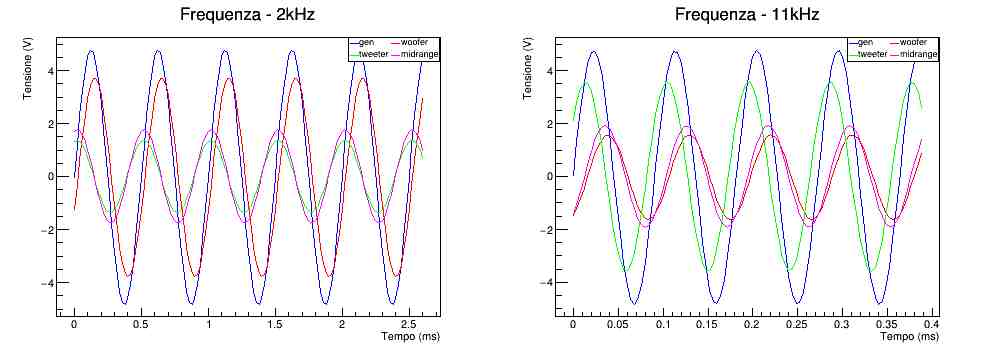
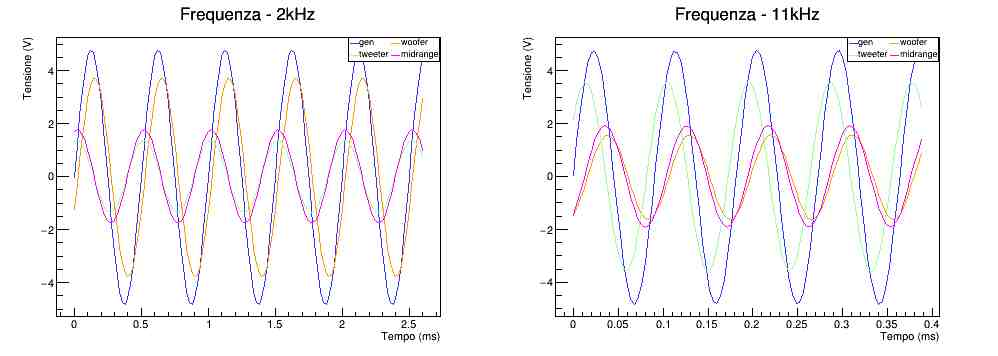
cosmetics

diff --git a/multigrafico_tempo_2kHz_11kHz.tex b/multigrafico_tempo_2kHz_11kHz.tex
@@ -145,7 +145,7 @@
 \draw [anchor= east] (1.112,4.6478) node[scale=0.535452, color=c, rotate=0]{2};
 \draw [anchor= east] (1.112,5.70996) node[scale=0.535452, color=c, rotate=0]{4};
 \draw [anchor= east] (0.583519,6.36377) node[scale=0.535452, color=c, rotate=90]{ Tensione (V)};
-\definecolor{c}{rgb}{0,0,1};
+\definecolor{c}{rgb}{0.2,0.2,1};
 \draw [c,line width=0.9] (1.50909,3.57257) -- (1.5628,4.20827) -- (1.6165,4.80173) -- (1.67021,5.31715) -- (1.72392,5.7203) -- (1.77762,5.9917) -- (1.83133,6.10876) -- (1.88504,6.06857) -- (1.93874,5.87088) -- (1.99245,5.52578) -- (2.04615,5.06012)
  -- (2.09986,4.4976) -- (2.15357,3.87995) -- (2.20727,3.24272) -- (2.26098,2.62259) -- (2.31469,2.06487) -- (2.36839,1.60197) -- (2.4221,1.25611) -- (2.4758,1.06322) -- (2.52951,1.02525) -- (2.58322,1.14616) -- (2.63692,1.41942) -- (2.69063,1.82889)
  -- (2.74434,2.34728) -- (2.79804,2.94048) -- (2.85175,3.57283) -- (2.90545,4.20776) -- (2.95916,4.80097) -- (3.01287,5.31663) -- (3.06657,5.72099) -- (3.12028,5.99161) -- (3.17399,6.10884) -- (3.22769,6.0684) -- (3.2814,5.8719) -- (3.3351,5.52518)
@@ -157,7 +157,7 @@
  (6.61119,1.14633) -- (6.6649,1.41976) -- (6.7186,1.82846) -- (6.77231,2.34582) -- (6.82601,2.93851) -- (6.87972,3.57659) -- (6.93343,4.20981) -- (6.98713,4.80268) -- (7.04084,5.318) -- (7.09455,5.72218) -- (7.14825,5.99341) -- (7.20196,6.10876) --
  (7.25566,6.06814) -- (7.30937,5.87045) -- (7.36308,5.52364) -- (7.41678,5.05824) -- (7.47049,4.49718) -- (7.5242,3.87721) -- (7.5779,3.24084) -- (7.63161,2.62165) -- (7.68531,2.06265) -- (7.73902,1.60103) -- (7.79273,1.25902) -- (7.84643,1.06433) --
  (7.90014,1.02491) -- (7.95385,1.14496) -- (8.00755,1.41857) -- (8.06126,1.83171) -- (8.11497,2.34856) -- (8.16867,2.94296) -- (8.22238,3.57523) -- (8.27608,4.20972) -- (8.32979,4.80131) -- (8.3835,5.31792) -- (8.4372,5.7227) -- (8.49091,5.99264);
-\definecolor{c}{rgb}{1,0,0};
+\definecolor{c}{rgb}{1,0.6,0};
 \draw [c,line width=0.9] (1.50909,2.91465) -- (1.5628,3.40192) -- (1.6165,3.90064) -- (1.67021,4.37842) -- (1.72392,4.80558) -- (1.77762,5.1558) -- (1.83133,5.40667) -- (1.88504,5.54271) -- (1.93874,5.55382) -- (1.99245,5.4401) -- (2.04615,5.20864)
  -- (2.09986,4.87381) -- (2.15357,4.45759) -- (2.20727,3.98631) -- (2.26098,3.48913) -- (2.31469,2.99716) -- (2.36839,2.54051) -- (2.4221,2.14772) -- (2.4758,1.84394) -- (2.52951,1.64831) -- (2.58322,1.57426) -- (2.63692,1.62685) -- (2.69063,1.80204)
  -- (2.74434,2.08804) -- (2.79804,2.46715) -- (2.85175,2.91423) -- (2.90545,3.40149) -- (2.95916,3.90055) -- (3.01287,4.37816) -- (3.06657,4.8055) -- (3.12028,5.15597) -- (3.17399,5.40684) -- (3.22769,5.54314) -- (3.2814,5.55408) -- (3.3351,5.44044)
@@ -170,7 +170,7 @@
  -- (7.20196,5.40787) -- (7.25566,5.54288) -- (7.30937,5.55399) -- (7.36308,5.43959) -- (7.41678,5.20822) -- (7.47049,4.87313) -- (7.5242,4.45682) -- (7.5779,3.9852) -- (7.63161,3.48827) -- (7.68531,2.99579) -- (7.73902,2.53931) -- (7.79273,2.14661)
  -- (7.84643,1.84385) -- (7.90014,1.64797) -- (7.95385,1.57426) -- (8.00755,1.62685) -- (8.06126,1.80255) -- (8.11497,2.08881) -- (8.16867,2.468) -- (8.22238,2.91551) -- (8.27608,3.40303) -- (8.32979,3.90166) -- (8.3835,4.37953) -- (8.4372,4.80644)
  -- (8.49091,5.157);
-\definecolor{c}{rgb}{0,1,0};
+\definecolor{c}{rgb}{0.6,1,0.6};
 \draw [c,line width=0.9] (1.50909,4.28342) -- (1.5628,4.30463) -- (1.6165,4.27941) -- (1.67021,4.21135) -- (1.72392,4.1061) -- (1.77762,3.96246) -- (1.83133,3.79624) -- (1.88504,3.61627) -- (1.93874,3.43774) -- (1.99245,3.26854) -- (2.04615,3.11763)
  -- (2.09986,2.99691) -- (2.15357,2.91337) -- (2.20727,2.87079) -- (2.26098,2.87293) -- (2.31469,2.9203) -- (2.36839,3.0105) -- (2.4221,3.1349) -- (2.4758,3.29205) -- (2.52951,3.46681) -- (2.58322,3.6467) -- (2.63692,3.82292) -- (2.69063,3.97785) --
  (2.74434,4.11507) -- (2.79804,4.21861) -- (2.85175,4.28069) -- (2.90545,4.30343) -- (2.95916,4.27855) -- (3.01287,4.21118) -- (3.06657,4.10695) -- (3.12028,3.96322) -- (3.17399,3.79641) -- (3.22769,3.61627) -- (3.2814,3.43749) -- (3.3351,3.26871) --
@@ -204,21 +204,21 @@
 \draw [anchor=base west] (7.23221,6.19604) node[scale=0.44621, color=c, rotate=0]{gen};
 \definecolor{c}{rgb}{1,1,1};
 \draw [c, fill=c] (7.03732,6.16609) -- (7.19782,6.16609) -- (7.19782,6.33382) -- (7.03732,6.33382);
-\definecolor{c}{rgb}{0,0,1};
+\definecolor{c}{rgb}{0.2,0.2,1};
 \draw [c,line width=0.9] (7.03732,6.24995) -- (7.19782,6.24995);
 \foreach \P in {(7.11757,6.24995)}{\draw[mark options={color=c,fill=c},mark size=2.402402pt, line width=0.000000pt, mark=*,mark size=1pt] plot coordinates {\P};}
 \definecolor{c}{rgb}{0,0,0};
 \draw [anchor=base west] (8.06842,6.19604) node[scale=0.44621, color=c, rotate=0]{woofer};
 \definecolor{c}{rgb}{1,1,1};
 \draw [c, fill=c] (7.87353,6.16609) -- (8.03403,6.16609) -- (8.03403,6.33382) -- (7.87353,6.33382);
-\definecolor{c}{rgb}{1,0,0};
+\definecolor{c}{rgb}{1,0.6,0};
 \draw [c,line width=0.9] (7.87353,6.24995) -- (8.03403,6.24995);
 \foreach \P in {(7.95378,6.24995)}{\draw[mark options={color=c,fill=c},mark size=2.402402pt, line width=0.000000pt, mark=*,mark size=1pt] plot coordinates {\P};}
 \definecolor{c}{rgb}{0,0,0};
 \draw [anchor=base west] (7.23221,5.95642) node[scale=0.44621, color=c, rotate=0]{tweeter};
 \definecolor{c}{rgb}{1,1,1};
 \draw [c, fill=c] (7.03732,5.92647) -- (7.19782,5.92647) -- (7.19782,6.0942) -- (7.03732,6.0942);
-\definecolor{c}{rgb}{0,1,0};
+\definecolor{c}{rgb}{0.6,1,0.6};
 \draw [c,line width=0.9] (7.03732,6.01034) -- (7.19782,6.01034);
 \foreach \P in {(7.11757,6.01034)}{\draw[mark options={color=c,fill=c},mark size=2.402402pt, line width=0.000000pt, mark=*,mark size=1pt] plot coordinates {\P};}
 \definecolor{c}{rgb}{0,0,0};
@@ -324,7 +324,7 @@
 \draw [anchor= east] (11.112,4.64712) node[scale=0.535452, color=c, rotate=0]{2};
 \draw [anchor= east] (11.112,5.70841) node[scale=0.535452, color=c, rotate=0]{4};
 \draw [anchor= east] (10.5835,6.36377) node[scale=0.535452, color=c, rotate=90]{ Tensione (V)};
-\definecolor{c}{rgb}{0,0,1};
+\definecolor{c}{rgb}{0.2,0.2,1};
 \draw [c,line width=0.9] (11.5091,3.60098) -- (11.5811,4.29321) -- (11.653,4.93079) -- (11.725,5.4656) -- (11.797,5.85484) -- (11.869,6.07074) -- (11.941,6.09688) -- (12.0129,5.93028) -- (12.0849,5.58538) -- (12.1569,5.08508) -- (12.2289,4.47065) --
  (12.3008,3.78858) -- (12.3728,3.09045) -- (12.4448,2.42692) -- (12.5168,1.85215) -- (12.5888,1.40338) -- (12.6607,1.12222) -- (12.7327,1.02474) -- (12.8047,1.12213) -- (12.8767,1.40449) -- (12.9486,1.85257) -- (13.0206,2.42965) -- (13.0926,3.09301)
  -- (13.1646,3.79131) -- (13.2366,4.4751) -- (13.3085,5.08944) -- (13.3805,5.58632) -- (13.4525,5.93302) -- (13.5245,6.09723) -- (13.5964,6.07083) -- (13.6684,5.85313) -- (13.7404,5.46184) -- (13.8124,4.9272) -- (13.8843,4.28886) -- (13.9563,3.5967)
@@ -334,7 +334,7 @@
  -- (16.5475,4.82067) -- (16.6195,5.37854) -- (16.6915,5.797) -- (16.7634,6.04537) -- (16.8354,6.10722) -- (16.9074,5.97274) -- (16.9794,5.65868) -- (17.0514,5.18555) -- (17.1233,4.58838) -- (17.1953,3.91399) -- (17.2673,3.21697) -- (17.3393,2.54387)
  -- (17.4112,1.9486) -- (17.4832,1.47369) -- (17.5552,1.15955) -- (17.6272,1.02884) -- (17.6992,1.08967) -- (17.7711,1.34144) -- (17.8431,1.76116) -- (17.9151,2.31834) -- (17.9871,2.96897) -- (18.059,3.6636) -- (18.131,4.35532) -- (18.203,4.98581) --
  (18.275,5.50695) -- (18.347,5.88261) -- (18.4189,6.08133) -- (18.4909,6.08988);
-\definecolor{c}{rgb}{1,0,0};
+\definecolor{c}{rgb}{1,0.6,0};
 \draw [c,line width=0.9] (11.5091,2.8134) -- (11.5811,2.95257) -- (11.653,3.13761) -- (11.725,3.35537) -- (11.797,3.58842) -- (11.869,3.8201) -- (11.941,4.03154) -- (12.0129,4.20838) -- (12.0849,4.33584) -- (12.1569,4.4053) -- (12.2289,4.41102) --
  (12.3008,4.35284) -- (12.3728,4.23469) -- (12.4448,4.06623) -- (12.5168,3.85966) -- (12.5888,3.63147) -- (12.6607,3.398) -- (12.7327,3.17767) -- (12.8047,2.98665) -- (12.8767,2.84023) -- (12.9486,2.74865) -- (13.0206,2.71977) -- (13.0926,2.75548) --
  (13.1646,2.8533) -- (13.2366,3.00502) -- (13.3085,3.20023) -- (13.3805,3.42277) -- (13.4525,3.65693) -- (13.5245,3.88435) -- (13.5964,4.08767) -- (13.6684,4.25144) -- (13.7404,4.36404) -- (13.8124,4.41547) -- (13.8843,4.40368) -- (13.9563,4.3279) --
@@ -344,7 +344,7 @@
  (16.6195,3.32) -- (16.6915,3.55074) -- (16.7634,3.78345) -- (16.8354,3.99968) -- (16.9074,4.18327) -- (16.9794,4.31978) -- (17.0514,4.40052) -- (17.1233,4.41735) -- (17.1953,4.37027) -- (17.2673,4.26203) -- (17.3393,4.10177) -- (17.4112,3.90066) --
  (17.4832,3.67504) -- (17.5552,3.44088) -- (17.6272,3.21706) -- (17.6992,3.01912) -- (17.7711,2.86364) -- (17.8431,2.76146) -- (17.9151,2.72131) -- (17.9871,2.74489) -- (18.059,2.83211) -- (18.131,2.97469) -- (18.203,3.16289) -- (18.275,3.38168) --
  (18.347,3.61499) -- (18.4189,3.84454) -- (18.4909,4.05367);
-\definecolor{c}{rgb}{0,1,0};
+\definecolor{c}{rgb}{0.6,1,0.6};
 \draw [c,line width=0.9] (11.5091,4.70807) -- (11.5811,5.0803) -- (11.653,5.34198) -- (11.725,5.46833) -- (11.797,5.45372) -- (11.869,5.29542) -- (11.941,5.00981) -- (12.0129,4.61349) -- (12.0849,4.13688) -- (12.1569,3.61909) -- (12.2289,3.09968) --
  (12.3008,2.62153) -- (12.3728,2.21309) -- (12.4448,1.90827) -- (12.5168,1.73083) -- (12.5888,1.69239) -- (12.6607,1.79935) -- (12.7327,2.04086) -- (12.8047,2.40086) -- (12.8767,2.85475) -- (12.9486,3.36006) -- (13.0206,3.88477) -- (13.0926,4.38317)
  -- (13.1646,4.81879) -- (13.2366,5.16522) -- (13.3085,5.39161) -- (13.3805,5.48072) -- (13.4525,5.42647) -- (13.5245,5.23219) -- (13.5964,4.91063) -- (13.6684,4.48877) -- (13.7404,3.99857) -- (13.8124,3.47582) -- (13.8843,2.9629) --
@@ -374,21 +374,21 @@
 \draw [anchor=base west] (17.2322,6.19604) node[scale=0.44621, color=c, rotate=0]{gen};
 \definecolor{c}{rgb}{1,1,1};
 \draw [c, fill=c] (17.0373,6.16609) -- (17.1978,6.16609) -- (17.1978,6.33382) -- (17.0373,6.33382);
-\definecolor{c}{rgb}{0,0,1};
+\definecolor{c}{rgb}{0.2,0.2,1};
 \draw [c,line width=0.9] (17.0373,6.24995) -- (17.1978,6.24995);
 \foreach \P in {(17.1176,6.24995)}{\draw[mark options={color=c,fill=c},mark size=2.402402pt, line width=0.000000pt, mark=*,mark size=1pt] plot coordinates {\P};}
 \definecolor{c}{rgb}{0,0,0};
 \draw [anchor=base west] (18.0684,6.19604) node[scale=0.44621, color=c, rotate=0]{woofer};
 \definecolor{c}{rgb}{1,1,1};
 \draw [c, fill=c] (17.8735,6.16609) -- (18.034,6.16609) -- (18.034,6.33382) -- (17.8735,6.33382);
-\definecolor{c}{rgb}{1,0,0};
+\definecolor{c}{rgb}{1,0.6,0};
 \draw [c,line width=0.9] (17.8735,6.24995) -- (18.034,6.24995);
 \foreach \P in {(17.9538,6.24995)}{\draw[mark options={color=c,fill=c},mark size=2.402402pt, line width=0.000000pt, mark=*,mark size=1pt] plot coordinates {\P};}
 \definecolor{c}{rgb}{0,0,0};
 \draw [anchor=base west] (17.2322,5.95642) node[scale=0.44621, color=c, rotate=0]{tweeter};
 \definecolor{c}{rgb}{1,1,1};
 \draw [c, fill=c] (17.0373,5.92647) -- (17.1978,5.92647) -- (17.1978,6.0942) -- (17.0373,6.0942);
-\definecolor{c}{rgb}{0,1,0};
+\definecolor{c}{rgb}{0.6,1,0.6};
 \draw [c,line width=0.9] (17.0373,6.01034) -- (17.1978,6.01034);
 \foreach \P in {(17.1176,6.01034)}{\draw[mark options={color=c,fill=c},mark size=2.402402pt, line width=0.000000pt, mark=*,mark size=1pt] plot coordinates {\P};}
 \definecolor{c}{rgb}{0,0,0};

diff --git a/multigrafico_tempo_5.3kHz.tex b/multigrafico_tempo_5.3kHz.tex
@@ -152,7 +152,7 @@
 \draw [anchor= east] (1.9,8.97583) node[scale=1.08185, color=c, rotate=0]{2};
 \draw [anchor= east] (1.9,11.0948) node[scale=1.08185, color=c, rotate=0]{4};
 \draw [anchor= east] (0.812894,12.2751) node[scale=1.08185, color=c, rotate=90]{ Tensione (V)};
-\definecolor{c}{rgb}{0,0,1};
+\definecolor{c}{rgb}{0.2,0.2,1};
 \draw [c,line width=0.9] (2.72727,6.84364) -- (2.8742,7.92827) -- (3.02112,8.96413) -- (3.16804,9.89408) -- (3.31497,10.6746) -- (3.46189,11.2643) -- (3.60882,11.6382) -- (3.75574,11.7791) -- (3.90266,11.674) -- (4.04959,11.3363) -- (4.19651,10.772)
  -- (4.34343,10.0162) -- (4.49036,9.1057) -- (4.63728,8.08417) -- (4.78421,7.00022) -- (4.93113,5.91424) -- (5.07805,4.8656) -- (5.22498,3.913) -- (5.3719,3.10212) -- (5.51882,2.47135) -- (5.66575,2.05329) -- (5.81267,1.86822) -- (5.9596,1.92775) --
  (6.10652,2.22608) -- (6.25344,2.74682) -- (6.40037,3.47055) -- (6.54729,4.3551) -- (6.69421,5.35888) -- (6.84114,6.43804) -- (6.98806,7.52846) -- (7.13499,8.59093) -- (7.28191,9.56454) -- (7.42883,10.4026) -- (7.57576,11.0678) -- (7.72268,11.5243)
@@ -162,7 +162,7 @@
  -- (13.1589,6.72613) -- (13.3058,5.6415) -- (13.4527,4.61095) -- (13.5996,3.69177) -- (13.7466,2.92473) -- (13.8935,2.3436) -- (14.0404,1.98438) -- (14.1873,1.85986) -- (14.3343,1.98079) -- (14.4812,2.34121) -- (14.6281,2.91654) -- (14.775,3.68546)
  -- (14.9219,4.60259) -- (15.0689,5.63042) -- (15.2158,6.71674) -- (15.3627,7.80291) -- (15.5096,8.849) -- (15.6566,9.79498) -- (15.8035,10.5921) -- (15.9504,11.2072) -- (16.0973,11.6084) -- (16.2443,11.7706) -- (16.3912,11.6964) -- (16.5381,11.3851)
  -- (16.685,10.8454) -- (16.832,10.1139) -- (16.9789,9.22066) -- (17.1258,8.20937) -- (17.2727,7.12798);
-\definecolor{c}{rgb}{1,0,0};
+\definecolor{c}{rgb}{1,0.6,0};
 \draw [c,line width=0.9] (2.72727,6.81942) -- (2.8742,7.71302) -- (3.02112,8.56636) -- (3.16804,9.33751) -- (3.31497,9.9884) -- (3.46189,10.4885) -- (3.60882,10.8123) -- (3.75574,10.9424) -- (3.90266,10.8721) -- (4.04959,10.6037) -- (4.19651,10.1518)
  -- (4.34343,9.53827) -- (4.49036,8.79458) -- (4.63728,7.95727) -- (4.78421,7.06623) -- (4.93113,6.16531) -- (5.07805,5.29799) -- (5.22498,4.50742) -- (5.3719,3.83078) -- (5.51882,3.30134) -- (5.66575,2.94417) -- (5.81267,2.77787) -- (5.9596,2.81079)
  -- (6.10652,3.04208) -- (6.25344,3.46082) -- (6.40037,4.04382) -- (6.54729,4.76378) -- (6.69421,5.58488) -- (6.84114,6.46908) -- (6.98806,7.37189) -- (7.13499,8.25013) -- (7.28191,9.06033) -- (7.42883,9.7641) -- (7.57576,10.3265) --
@@ -172,7 +172,7 @@
  (13.0119,7.74116) -- (13.1589,6.84211) -- (13.3058,5.94443) -- (13.4527,5.09211) -- (13.5996,4.32611) -- (13.7466,3.68307) -- (13.8935,3.19371) -- (14.0404,2.88345) -- (14.1873,2.76661) -- (14.3343,2.85087) -- (14.4812,3.13129) -- (14.6281,3.59284)
  -- (14.775,4.2137) -- (14.9219,4.96283) -- (15.0689,5.80439) -- (15.2158,6.69679) -- (15.3627,7.59789) -- (15.5096,8.46283) -- (15.6566,9.24983) -- (15.8035,9.92086) -- (15.9504,10.4432) -- (16.0973,10.7908) -- (16.2443,10.9467) -- (16.3912,10.9003)
  -- (16.5381,10.6553) -- (16.685,10.2233) -- (16.832,9.62765) -- (16.9789,8.89744) -- (17.1258,8.06831) -- (17.2727,7.18);
-\definecolor{c}{rgb}{0,1,0};
+\definecolor{c}{rgb}{0.6,1,0.6};
 \draw [c,line width=0.9] (2.72727,4.8436) -- (2.8742,5.32698) -- (3.02112,5.88473) -- (3.16804,6.48716) -- (3.31497,7.10512) -- (3.46189,7.70909) -- (3.60882,8.26958) -- (3.75574,8.76098) -- (3.90266,9.15738) -- (4.04959,9.43968) -- (4.19651,9.59455)
  -- (4.34343,9.61434) -- (4.49036,9.49733) -- (4.63728,9.25) -- (4.78421,8.88345) -- (4.93113,8.41746) -- (5.07805,7.87369) -- (5.22498,7.27859) -- (5.3719,6.66165) -- (5.51882,6.05222) -- (5.66575,5.481) -- (5.81267,4.9746) -- (5.9596,4.55859) --
  (6.10652,4.25293) -- (6.25344,4.07282) -- (6.40037,4.02813) -- (6.54729,4.1204) -- (6.69421,4.34521) -- (6.84114,4.6918) -- (6.98806,5.14209) -- (7.13499,5.67408) -- (7.28191,6.26168) -- (7.42883,6.87725) -- (7.57576,7.49009) -- (7.72268,8.06967) --
@@ -202,21 +202,21 @@
 \draw [anchor=base west] (14.6504,11.9479) node[scale=0.890934, color=c, rotate=0]{gen};
 \definecolor{c}{rgb}{1,1,1};
 \draw [c, fill=c] (14.2444,11.8894) -- (14.5788,11.8894) -- (14.5788,12.2166) -- (14.2444,12.2166);
-\definecolor{c}{rgb}{0,0,1};
+\definecolor{c}{rgb}{0.2,0.2,1};
 \draw [c,line width=0.9] (14.2444,12.053) -- (14.5788,12.053);
 \foreach \P in {(14.4116,12.053)}{\draw[mark options={color=c,fill=c},mark size=2.402402pt, line width=0.000000pt, mark=*,mark size=1pt] plot coordinates {\P};}
 \definecolor{c}{rgb}{0,0,0};
 \draw [anchor=base west] (16.3986,11.9479) node[scale=0.890934, color=c, rotate=0]{woofer};
 \definecolor{c}{rgb}{1,1,1};
 \draw [c, fill=c] (15.9926,11.8894) -- (16.327,11.8894) -- (16.327,12.2166) -- (15.9926,12.2166);
-\definecolor{c}{rgb}{1,0,0};
+\definecolor{c}{rgb}{1,0.6,0};
 \draw [c,line width=0.9] (15.9926,12.053) -- (16.327,12.053);
 \foreach \P in {(16.1598,12.053)}{\draw[mark options={color=c,fill=c},mark size=2.402402pt, line width=0.000000pt, mark=*,mark size=1pt] plot coordinates {\P};}
 \definecolor{c}{rgb}{0,0,0};
 \draw [anchor=base west] (14.6504,11.4804) node[scale=0.890934, color=c, rotate=0]{tweeter};
 \definecolor{c}{rgb}{1,1,1};
 \draw [c, fill=c] (14.2444,11.422) -- (14.5788,11.422) -- (14.5788,11.7492) -- (14.2444,11.7492);
-\definecolor{c}{rgb}{0,1,0};
+\definecolor{c}{rgb}{0.6,1,0.6};
 \draw [c,line width=0.9] (14.2444,11.5856) -- (14.5788,11.5856);
 \foreach \P in {(14.4116,11.5856)}{\draw[mark options={color=c,fill=c},mark size=2.402402pt, line width=0.000000pt, mark=*,mark size=1pt] plot coordinates {\P};}
 \definecolor{c}{rgb}{0,0,0};

diff --git a/time_graphic.cpp b/time_graphic.cpp
@@ -23,16 +23,16 @@ void grafico() {
   mg->Add(graph_M);
 
   // Cosmetics
-  graph_Gen->SetLineColor(kBlue);
-  graph_Gen->SetMarkerColor(kBlue);
+  graph_Gen->SetLineColor(kBlue-4);
+  graph_Gen->SetMarkerColor(kBlue-4);
   graph_Gen->SetLineWidth(1);
 
-  graph_W->SetLineColor(kRed);
-  graph_W->SetMarkerColor(kRed);
+  graph_W->SetLineColor(kOrange-3);
+  graph_W->SetMarkerColor(kOrange-3);
   graph_W->SetLineWidth(1);
 
-  graph_T->SetLineColor(kGreen);
-  graph_T->SetMarkerColor(kGreen);
+  graph_T->SetLineColor(kGreen-9);
+  graph_T->SetMarkerColor(kGreen-9);
   graph_T->SetLineWidth(1);
 
   graph_M->SetLineColor(kMagenta);
@@ -71,16 +71,16 @@ void grafico() {
   mg2->Add(graph_M2);
 
   // Cosmetics
-  graph_Gen2->SetLineColor(kBlue);
-  graph_Gen2->SetMarkerColor(kBlue);
+  graph_Gen2->SetLineColor(kBlue-4);
+  graph_Gen2->SetMarkerColor(kBlue-4);
   graph_Gen2->SetLineWidth(1);
 
-  graph_W2->SetLineColor(kRed);
-  graph_W2->SetMarkerColor(kRed);
+  graph_W2->SetLineColor(kOrange-3);
+  graph_W2->SetMarkerColor(kOrange-3);
   graph_W2->SetLineWidth(1);
 
-  graph_T2->SetLineColor(kGreen);
-  graph_T2->SetMarkerColor(kGreen);
+  graph_T2->SetLineColor(kGreen-9);
+  graph_T2->SetMarkerColor(kGreen-9);
   graph_T2->SetLineWidth(1);
 
   graph_M2->SetLineColor(kMagenta);
@@ -118,16 +118,16 @@ void grafico() {
   mg3->Add(graph_M3);
 
   // Cosmetics
-  graph_Gen3->SetLineColor(kBlue);
-  graph_Gen3->SetMarkerColor(kBlue);
+  graph_Gen3->SetLineColor(kBlue-4);
+  graph_Gen3->SetMarkerColor(kBlue-4);
   graph_Gen3->SetLineWidth(1);
 
-  graph_W3->SetLineColor(kRed);
-  graph_W3->SetMarkerColor(kRed);
+  graph_W3->SetLineColor(kOrange-3);
+  graph_W3->SetMarkerColor(kOrange-3);
   graph_W3->SetLineWidth(1);
 
-  graph_T3->SetLineColor(kGreen);
-  graph_T3->SetMarkerColor(kGreen);
+  graph_T3->SetLineColor(kGreen-9);
+  graph_T3->SetMarkerColor(kGreen-9);
   graph_T3->SetLineWidth(1);
 
   graph_M3->SetLineColor(kMagenta);
